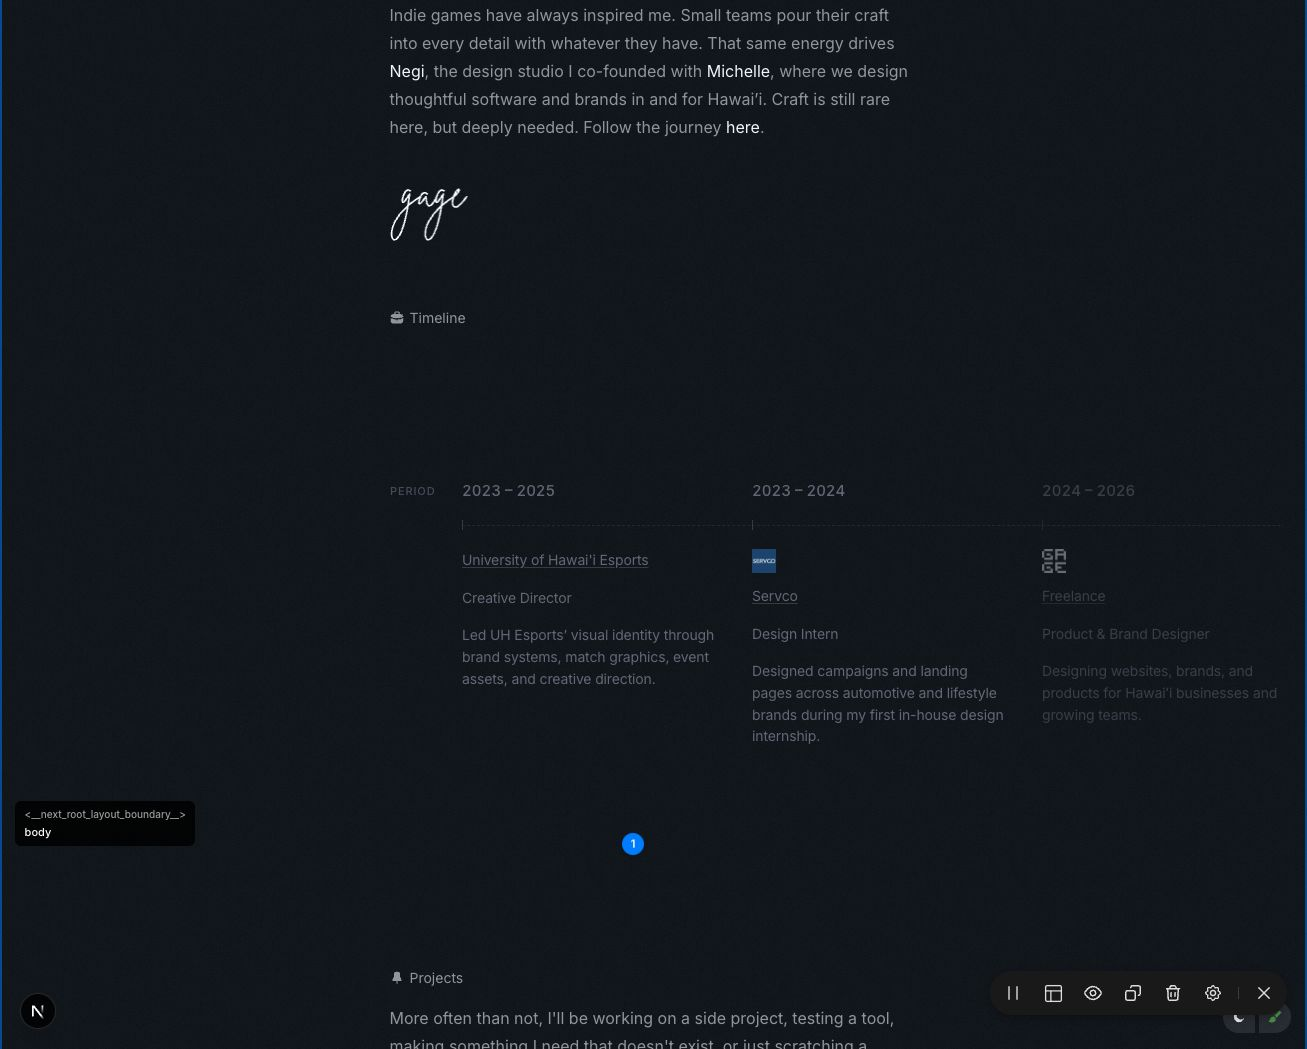
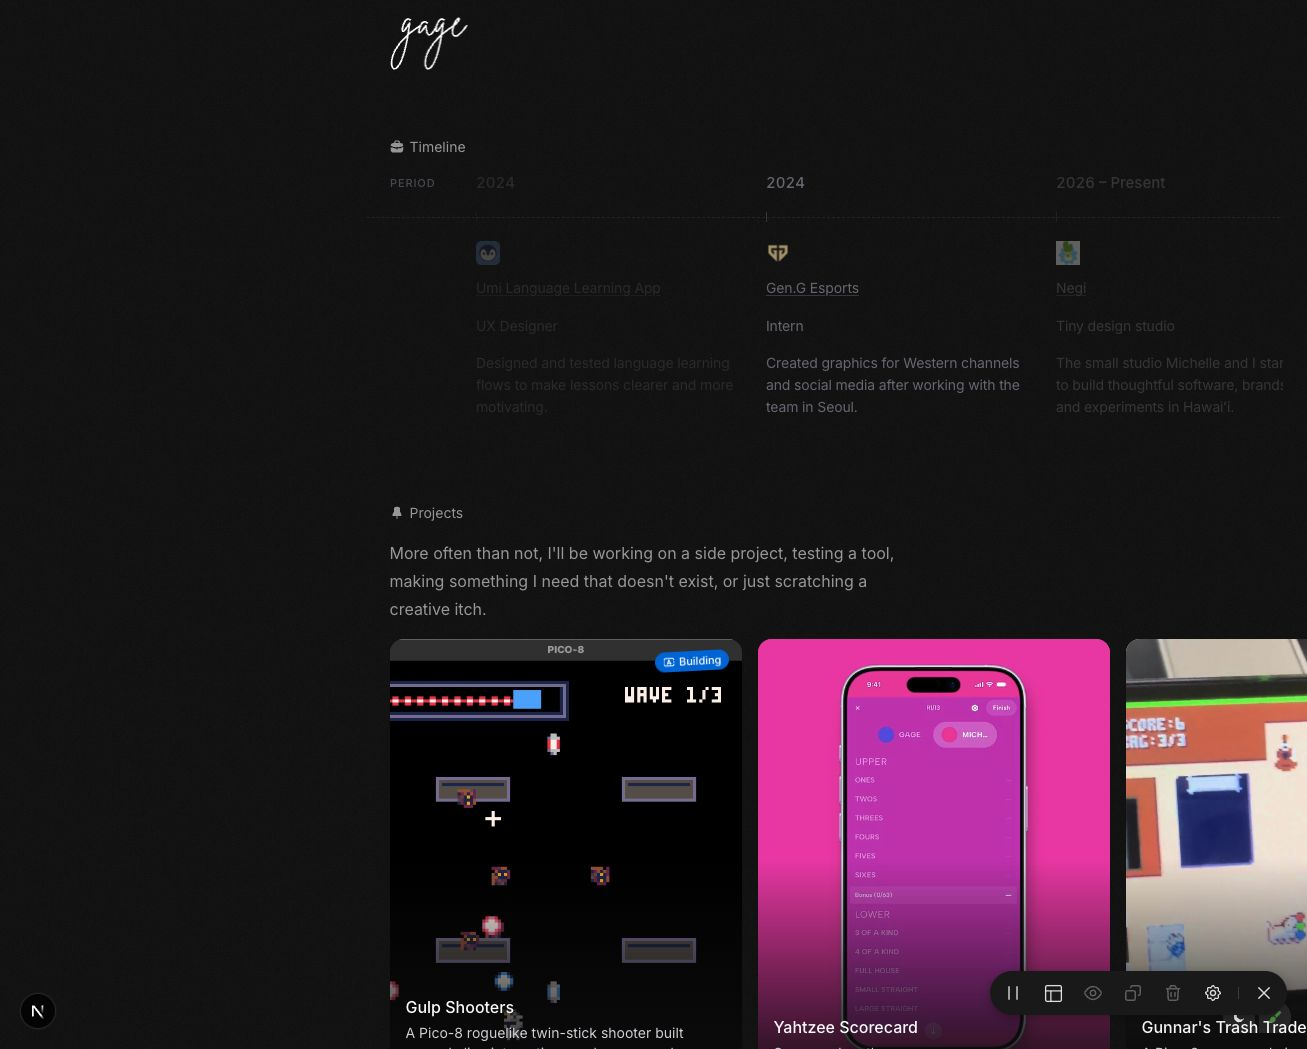
Remove excess vertical space around the About timeline

diff --git a/components/lifeline/lifeline-marker.tsx b/components/lifeline/lifeline-marker.tsx
@@ -76,7 +76,7 @@ export const LifelineMarkerColumn = forwardRef<
             {marker.label ?? marker.year}
           </p>
 
-          <div className="relative w-full pb-10 text-zinc-500 transition-colors duration-300 group-hover:text-black dark:group-hover:text-zinc-300">
+          <div className="relative w-full text-zinc-500 transition-colors duration-300 group-hover:text-black dark:group-hover:text-zinc-300">
             {/* When this column carries people, the content block reserves
                 the band's height as a floor: short and average columns put
                 their portraits on the same line as every other column, and

diff --git a/components/timeline-section.tsx b/components/timeline-section.tsx
@@ -21,13 +21,14 @@ export function TimelineSection({
         Timeline
       </h2>
       <div
-        className="h-[560px] min-w-0 md:-ml-6 md:w-[calc(50vw+50%)]"
+        className="h-[560px] min-w-0 md:-ml-6 md:h-auto md:w-[calc(50vw+50%)]"
       >
         <Lifeline
           markers={markers}
           birthYear={0}
           title="Work and projects timeline"
           mode="embed"
+          className="md:h-auto md:pt-0"
           axisLabels={["Entry", "Period"]}
           showSecondaryAxis={false}
         />
